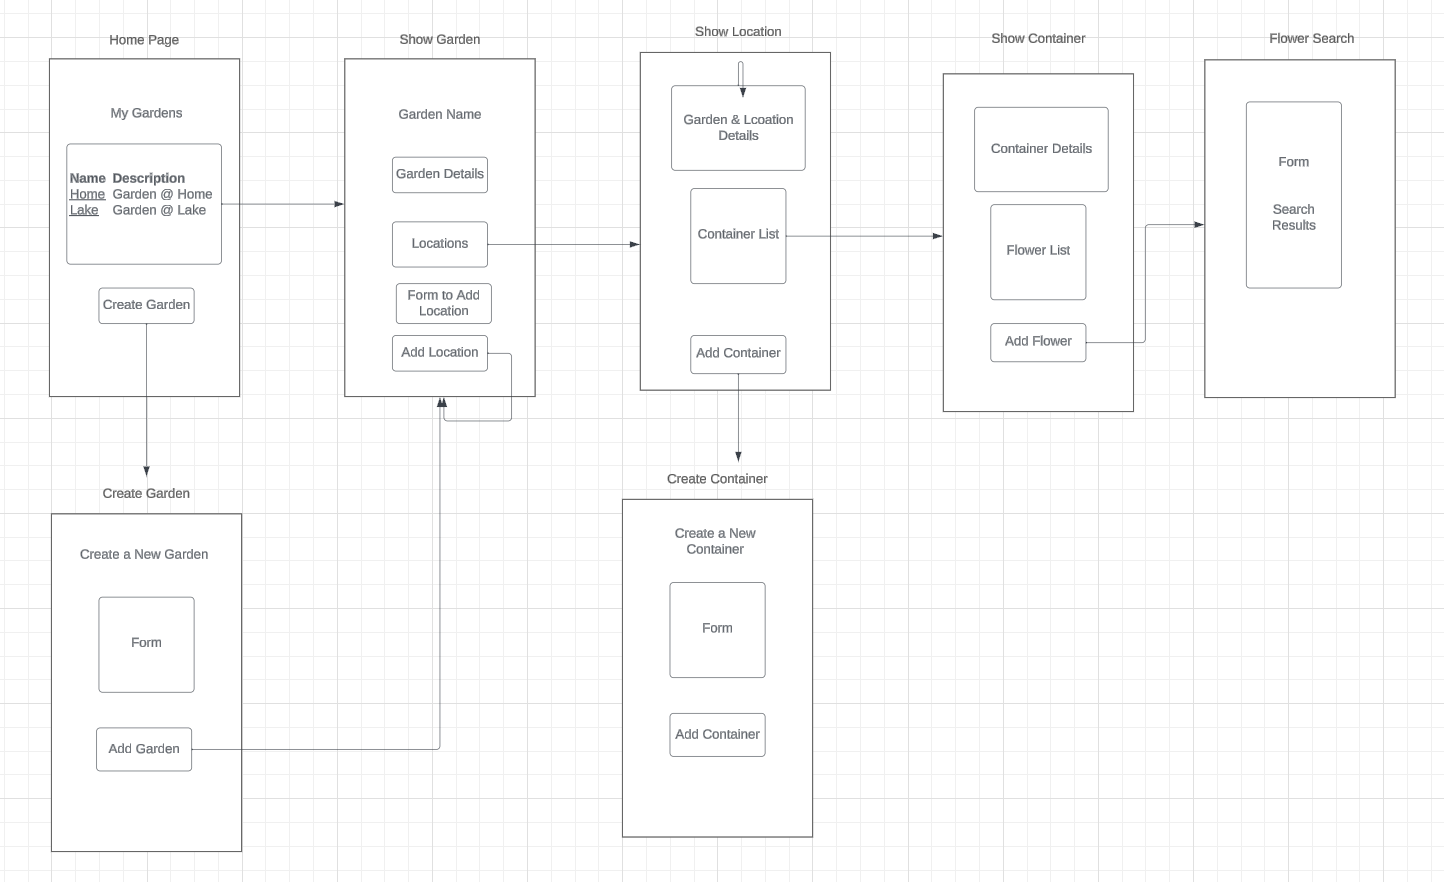
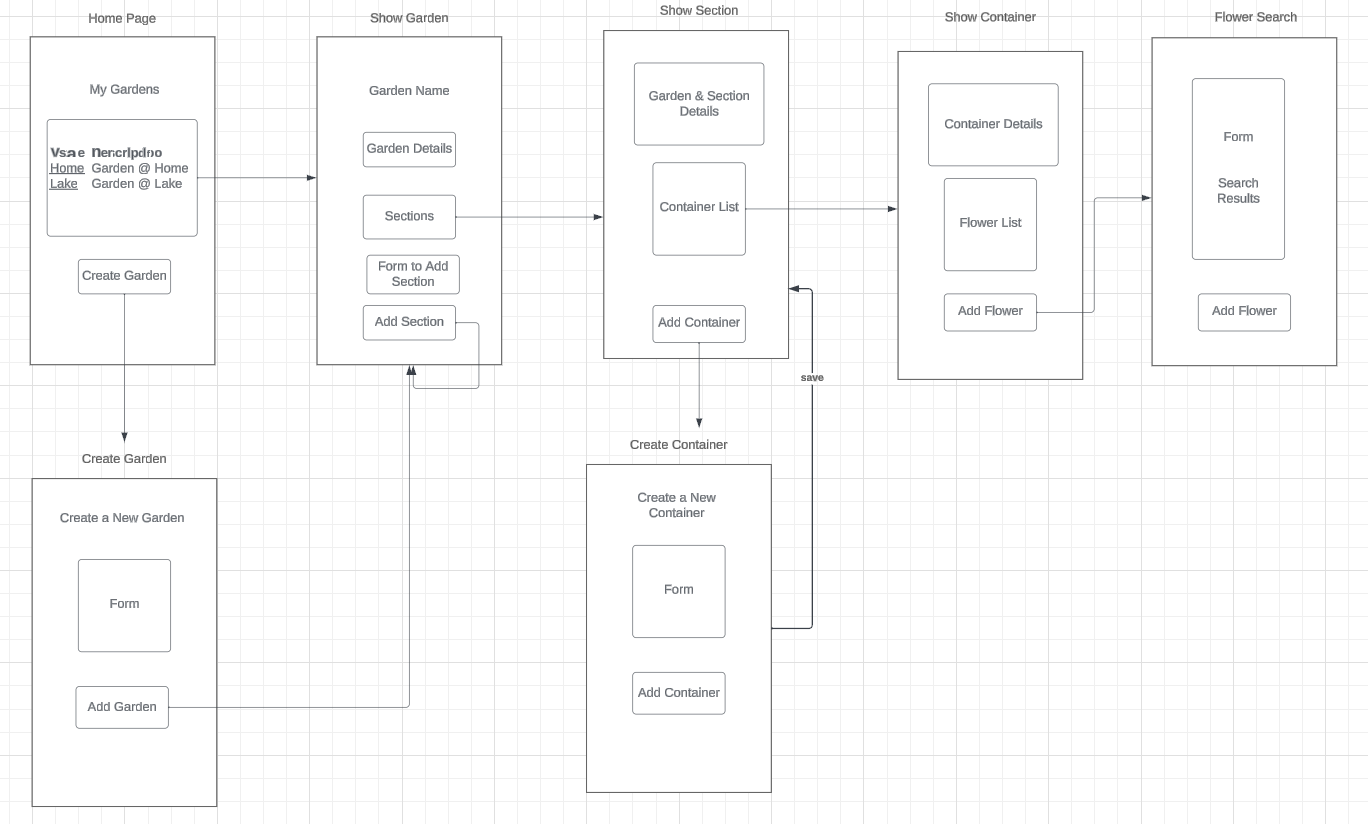
update user stories and wireframes to match simplified ERD

diff --git a/README.md b/README.md
@@ -10,15 +10,14 @@ As a user, I want to...
   - sign out. 
   - create a garden. 
   - update a garden's name and description.
-  - create a location within my garden.
-  - update a location's name and description.
-  - delete a location from my garden.
-  - delete a garden and all of its locations. 
+  - create a section within my garden.
+  - update a section name.
+  - delete a section from my garden.
   - create a container for my planted flowers.
-  - assign a container to a location in my garden.
+  - assign a container to a section in my garden.
   - set a quantity for my containers so I don't need to create four containers for all my tomato pots.
   - search for a flower from the plant API by partial name.
-  - associate a flower to a container with the preferred packaging and quantity.
+  - add a flower to a container with the preferred packaging and quantity.
   - delete a flower from a container.
   - associate multiple types of flower to the same container (e.g, petunias and spike).
 
@@ -28,13 +27,14 @@ As a user, I want to...
 
 ## ERD Diagram
 
-![ERD for My Flower Garden](public/images/ERDv3.png)
+![ERD for My Flower Garden](public/images/ERD.png)
 
 ## Technologies Used
 - JavaScript
 - Node.js
 - Express
 - EJS
+- MongoDB
 - CSS3
 
 ##### Font
@@ -44,17 +44,13 @@ font-family: Arial, Helvetica, sans-serif;
 
 ## Next Steps
 As a user, I want to...
-  - show an appropriate home page to someone who's not logged in.
+  - delete a garden and all of its sections. 
   - see a shopping list of all the flowers in my garden.
   - search for a flower from the plant API by cycle (e.g., annual, perennial, etc.).
-  - divide my garden into sections to better group locations.
-  - assign a location to a section.
-  - update a section's name and description.
-  - delete a section that's not associated to any locations.
-  - delete all sections for a garden when the garden is deleted.
   - upload photos of my containers.
   - inactivate a container so it does not appear on my shopping list.
   - filter container list by active/inactive.
+  - show an appropriate home page to someone who's not logged in.
   - change my password.
   - log in with Google.
   - see my errors better.
